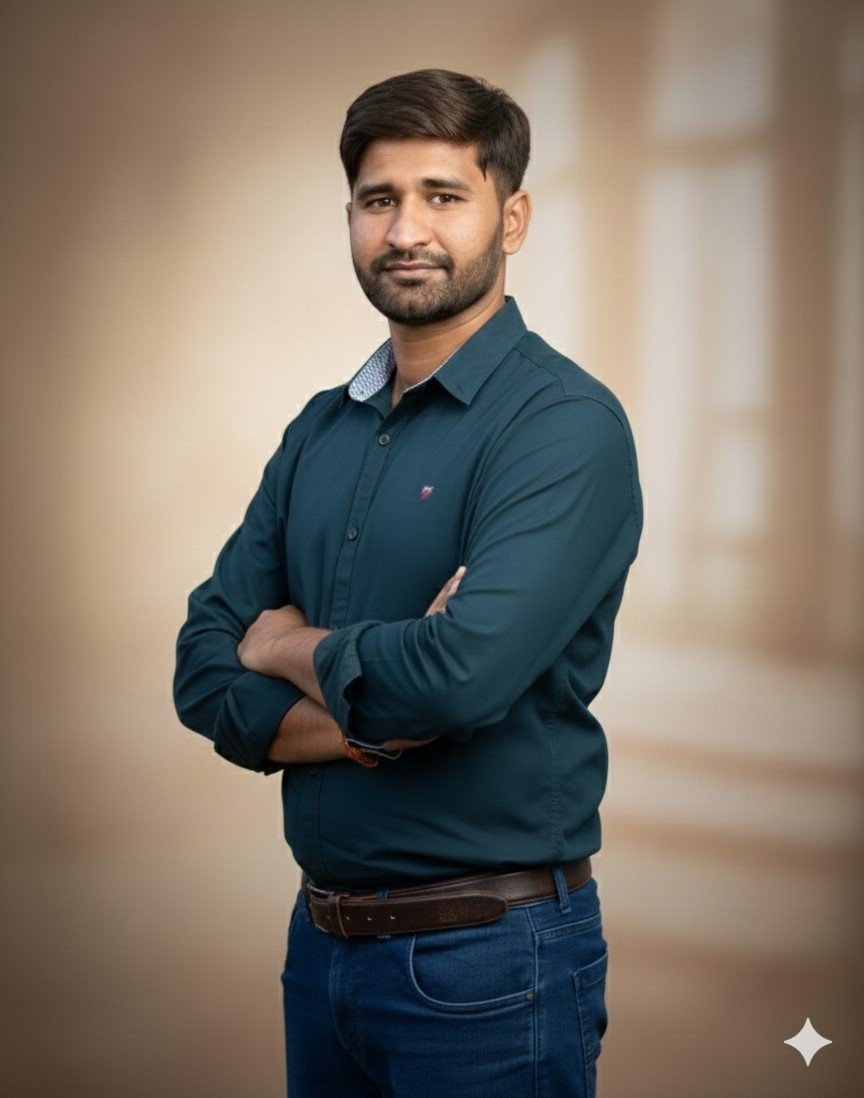
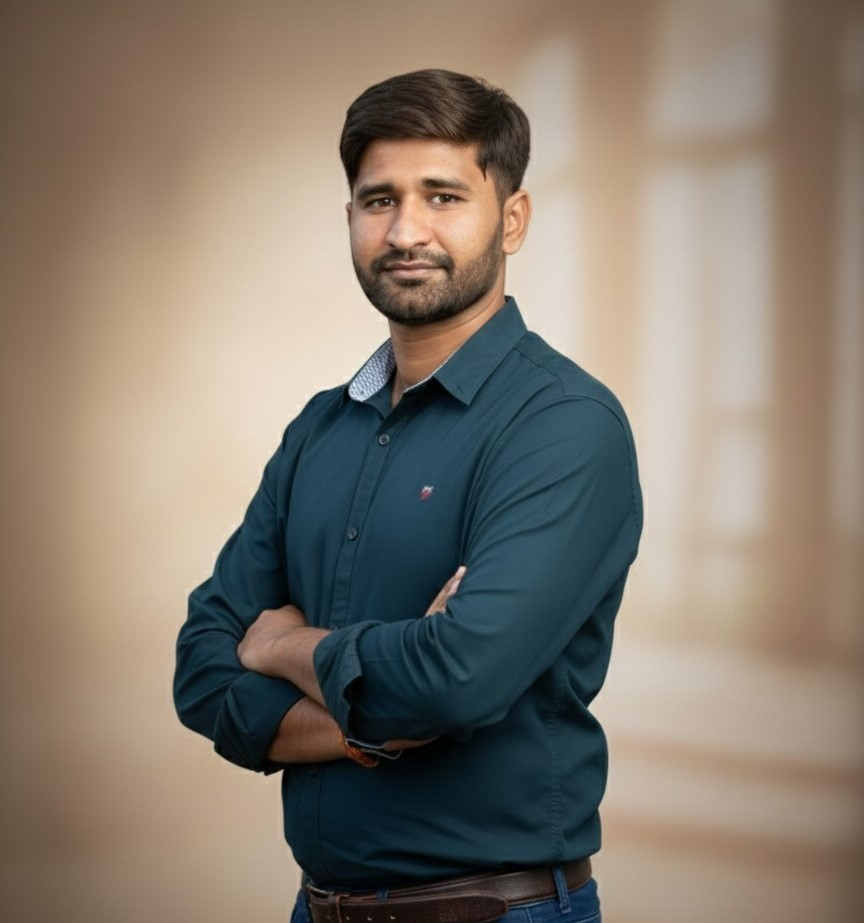
updated hero section

diff --git a/components/homeComponents/HeroSection.jsx b/components/homeComponents/HeroSection.jsx
@@ -34,24 +34,28 @@ const HeroSection = () => {
             Available for new opportunities
           </div>
 
-          <h1 className="text-4xl sm:text-5xl lg:text-6xl font-extrabold tracking-tight text-slate-900 dark:text-white leading-tight">
-            Hi, I'm <br className="hidden sm:inline" />
-            <span className="bg-gradient-to-r from-blue-600 to-indigo-500 dark:from-blue-400 dark:to-indigo-300 bg-clip-text text-transparent">
-              <TypeAnimation
-                sequence={[
-                  'Muhammad Abdullah',
-                  2000,
-                  'a Web Developer',
-                  2000,
-                  'Figma to Code Expert',
-                  2000,
-                ]}
-                wrapper="span"
-                speed={50}
-                repeat={Infinity}
-              />
+          <div className="flex flex-col gap-1 items-center lg:items-start">
+            <span className="text-xl font-semibold text-slate-505 dark:text-slate-400">
+              Hi, I'm
             </span>
-          </h1>
+            <h1 className="text-3xl sm:text-4xl lg:text-5xl font-extrabold tracking-tight text-slate-900 dark:text-white leading-none">
+              <span className="bg-gradient-to-r from-blue-600 to-indigo-500 dark:from-blue-400 dark:to-indigo-300 bg-clip-text text-transparent">
+                <TypeAnimation
+                  sequence={[
+                    'Muhammad Abdullah',
+                    2000,
+                    'A Web Developer',
+                    2000,
+                    'Figma to Code Expert',
+                    2000,
+                  ]}
+                  wrapper="span"
+                  speed={50}
+                  repeat={Infinity}
+                />
+              </span>
+            </h1>
+          </div>
 
           <p className="text-base sm:text-lg text-slate-600 dark:text-slate-300 max-w-xl leading-relaxed">
             A passionate developer specializing in building exceptional digital experiences. Currently, I'm focused on developing responsive web applications, interactive interfaces, and clean, modular systems.
